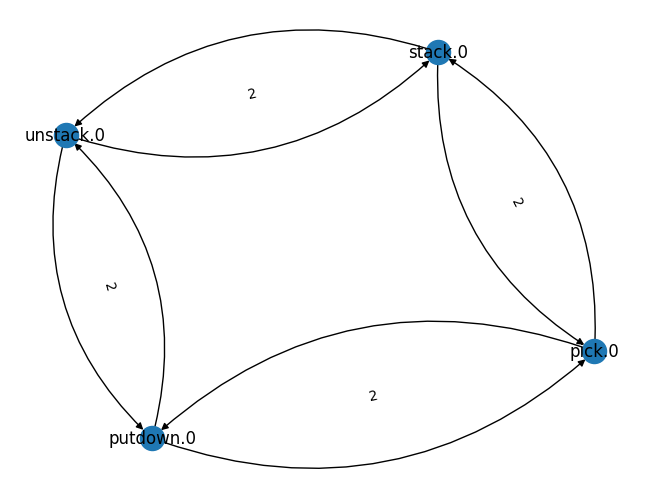
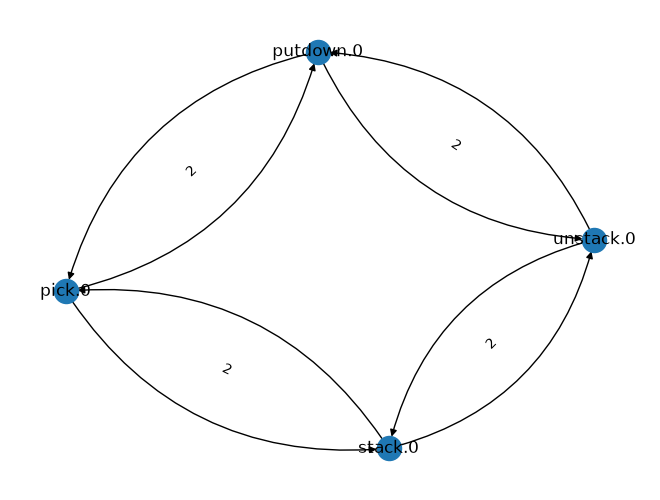
fix(locm): support pandas 3.x dtype casting and add FAMA end-to-end verification script

diff --git a/run_fama_test.py b/run_fama_test.py
@@ -1,0 +1,14 @@
+from meta_planning import dataset, LearningTask
+
+domain = 'blocks'
+m_ref = dataset.load_model(domain)
+m = m_ref.observe(precondition_observability=0, effect_observability=0)
+T = dataset.load_trajectories(domain, select=range(1))
+O = [t.observe(0.5, action_observability=1, goal_observability=1) for t in T]
+task = LearningTask(m, O)
+sol = task.learn()
+print("Solution status:", sol.solution_found)
+print("LEARNED PDDL DOMAIN MODEL:")
+print(sol.learned_model)
+
+

diff --git a/locm_repo/iLOCM.py b/locm_repo/iLOCM.py
@@ -297,7 +297,7 @@ def get_adjacency_matrix_with_holes(adjacency_matrix_list):
     for index,adjacency_matrix in enumerate(adjacency_matrix_list):
         # print("\n ROWS ===========")
         df = adjacency_matrix.copy()
-        df1 = adjacency_matrix.copy()
+        df1 = adjacency_matrix.copy().astype(object)
 
         # for particular adjacency matrix's copy, loop over all pairs of rows
         for i in range(df.shape[0] - 1):
